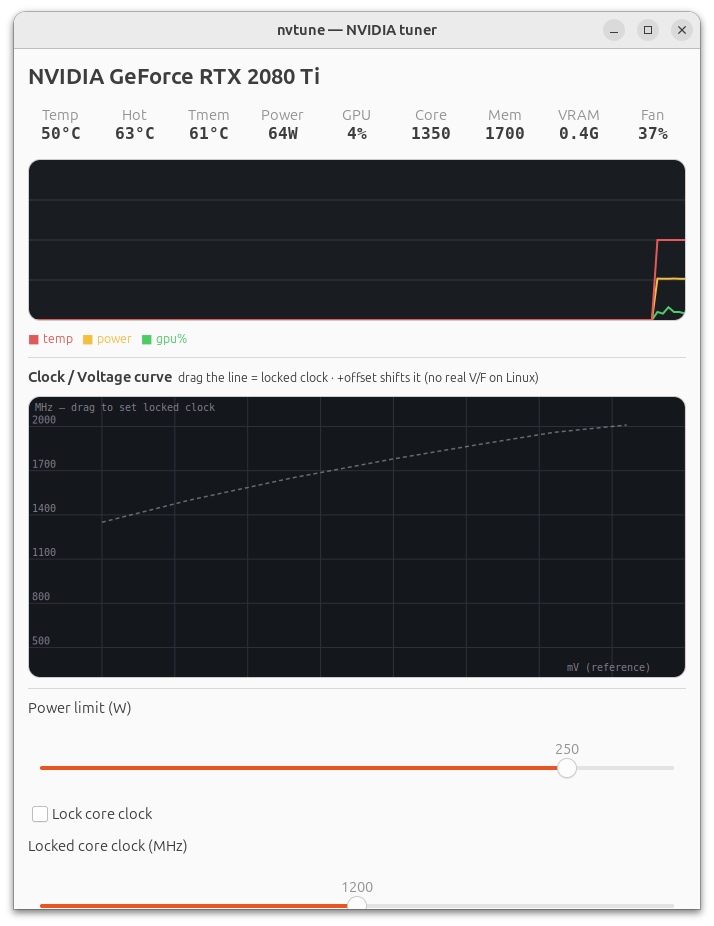
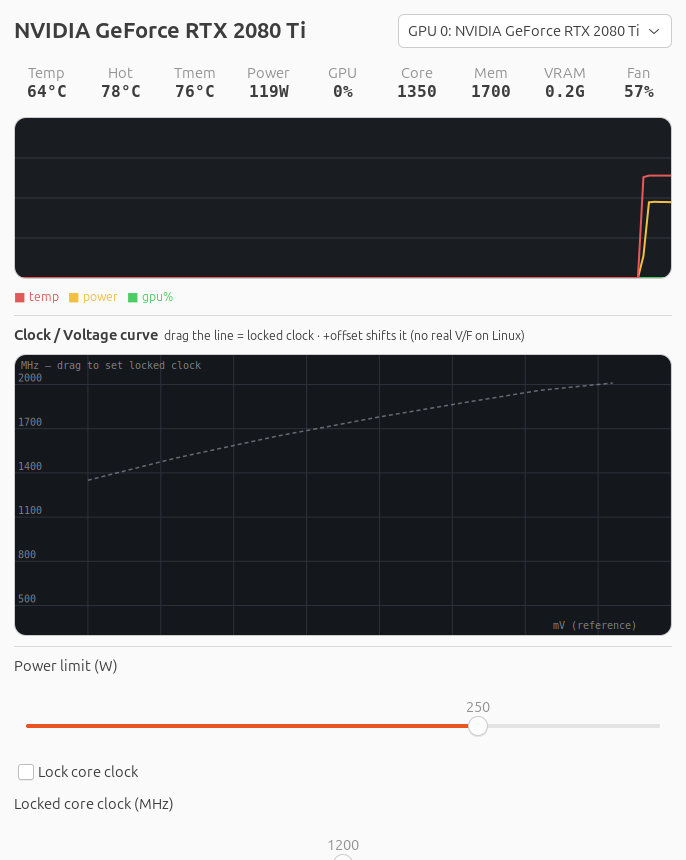
Document multi-GPU, refresh the screenshot, one process per window
The README only mentioned -i in passing and the screenshot predated the card
selector. Give both languages a "Multiple GPUs" section covering `nvtune list`,
the selector, and the warning that nvidia-smi indices do not follow PCI bus
order -- on this box card 0 sits on bus 04 and card 1 on bus 82, so picking by
slot position is wrong.

Also drop the implicit single-instance behaviour of Gtk.Application. With an
application_id and no flags, launching nvtune-gui while a window is already
open re-activates the running process instead of starting a new one: the -i
argument never reaches it, and the extra window it opens shares the same
module-level GPU global, so it silently shows whatever card the first window
was on. NON_UNIQUE gives each launch its own process, which is also what lets
you watch two cards side by side.

Changed region(s): [[0.0, 0.0, 1.0, 0.9977], [0.4286, 0.4837, 0.4898, 0.514]]

diff --git a/README.md b/README.md
@@ -64,7 +64,26 @@ nvtune osd run -- <game/launcher>               # launch a game with the overlay
 # Steam launch options:  mangohud %command%     (toggle with Shift_R+F12)
 ```
 
-Multiple GPUs: add `-i <index>` (e.g. `nvtune -i 1 monitor`).
+## Multiple GPUs
+
+`nvtune list` prints every card with the index to pass to `-i`; the index is
+nvidia-smi's, which does **not** follow PCI bus order, so check the bus column
+rather than assuming card 0 is the one in the top slot:
+
+```bash
+nvtune list
+#   -i 0   NVIDIA GeForce RTX 2080 Ti   00000000:04:00.0   22528 MiB   250W limit   <- default
+#   -i 1   NVIDIA GeForce RTX 2080 Ti   00000000:82:00.0   22528 MiB   250W limit
+
+nvtune -i 1 monitor            # any subcommand takes -i
+```
+
+The GUI shows a card selector next to the title whenever more than one GPU is
+present (single-GPU machines see no extra control). Switching re-reads
+everything that is per-card — power and clock ranges, tuning capability — and
+clears the graph, which belongs to the card you just left. `nvtune-gui -i 1`
+opens straight onto a given card, and each launch is its own process, so you
+can watch two cards side by side.
 
 ## Notes
 
@@ -127,7 +146,25 @@ nvtune osd run -- <game>
 # Steam: đặt launch option  mangohud %command%   (bật/tắt: Shift_R+F12)
 ```
 
-Nhiều GPU: thêm `-i <index>`.
+## Nhiều GPU
+
+`nvtune list` in ra từng card kèm index để truyền vào `-i`. Index này là của
+nvidia-smi và **không** theo thứ tự bus PCI, nên hãy nhìn cột bus chứ đừng mặc
+định card 0 là card ở khe trên cùng:
+
+```bash
+nvtune list
+#   -i 0   NVIDIA GeForce RTX 2080 Ti   00000000:04:00.0   22528 MiB   250W limit   <- default
+#   -i 1   NVIDIA GeForce RTX 2080 Ti   00000000:82:00.0   22528 MiB   250W limit
+
+nvtune -i 1 monitor            # mọi subcommand đều nhận -i
+```
+
+GUI hiện ô chọn card cạnh tên GPU khi máy có nhiều hơn một card (máy 1 card
+không thấy gì thêm). Đổi card sẽ đọc lại toàn bộ thứ thuộc về từng card —
+khoảng power/clock, khả năng tune — và xoá đồ thị vì dữ liệu đó là của card
+vừa rời. `nvtune-gui -i 1` mở thẳng vào một card, và mỗi lần chạy là một tiến
+trình riêng nên bạn mở song song hai cửa sổ cho hai card được.
 
 ## Lưu ý
 
